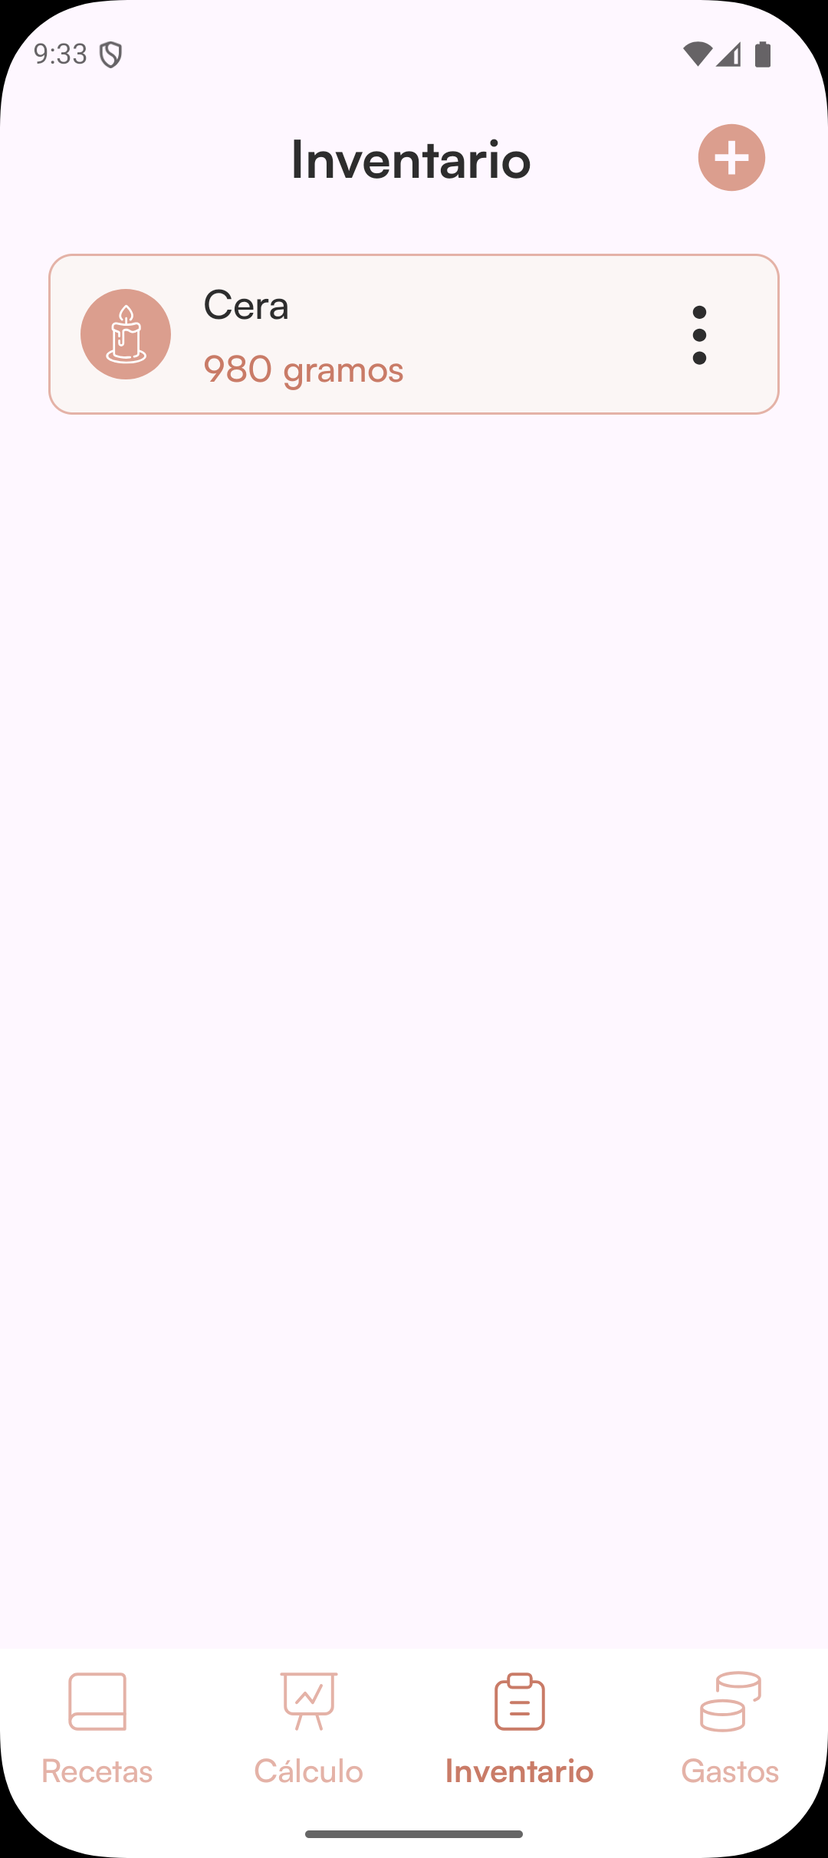
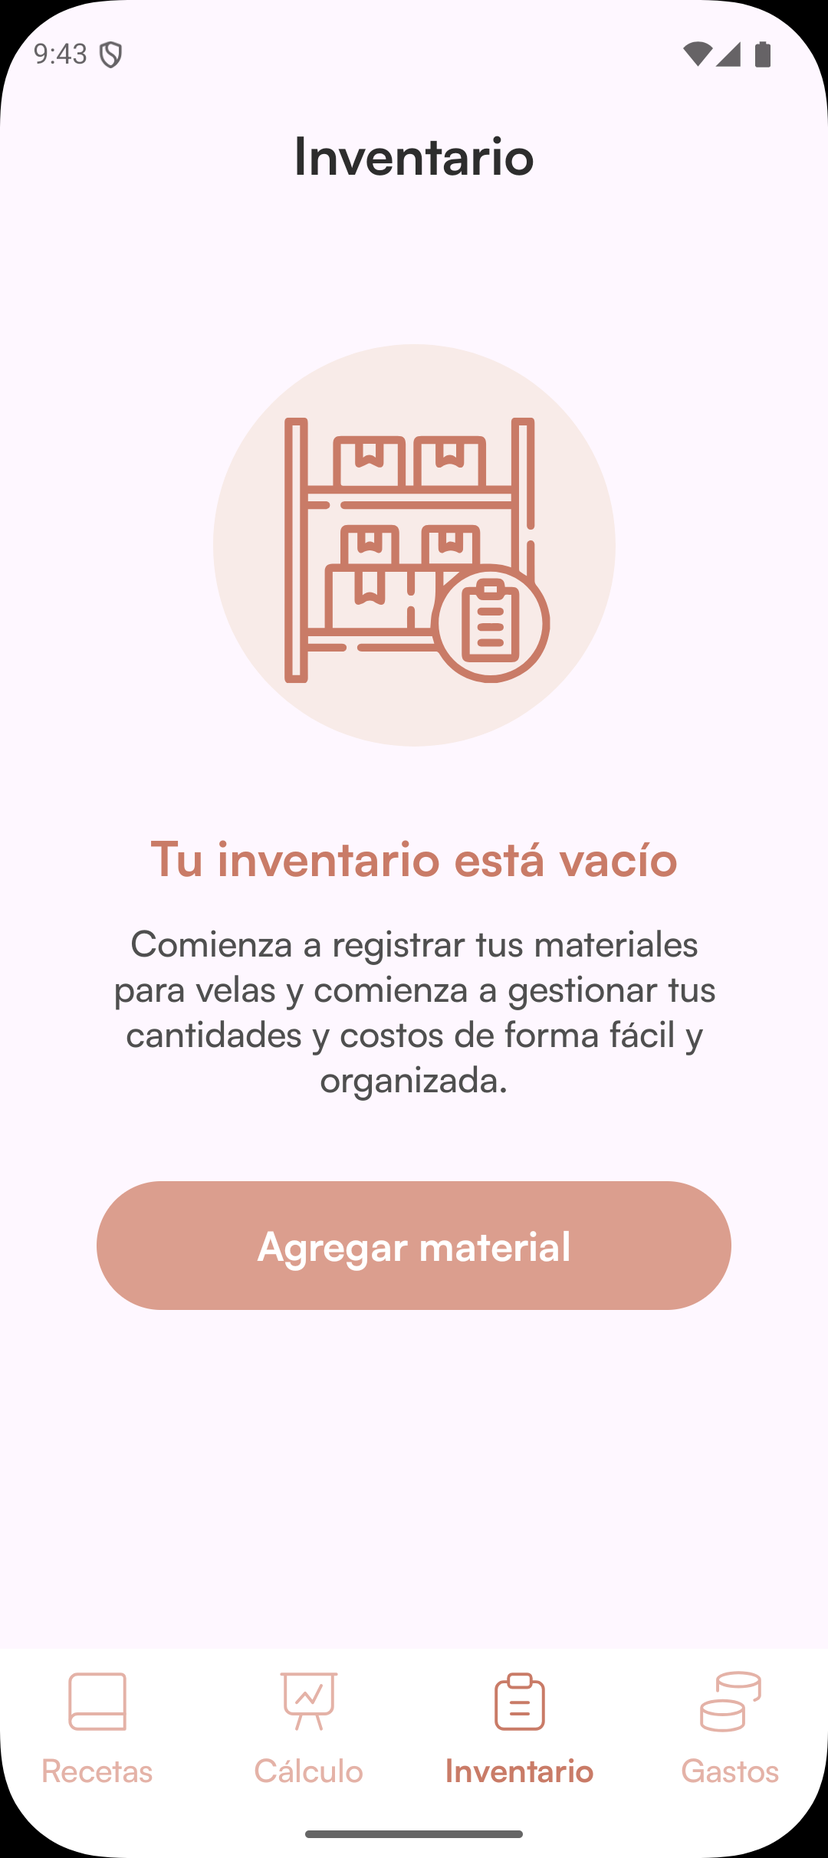
Update gallery: new inventory empty state and add expenses screen
Replace the inventory screenshot with the empty-state screen and add a
fourth screenshot for the expenses flow; gallery now shows four screens.

Claude-Session: https://claude.ai/code/session_01NnMmL3W12Z14CY7UHQrd7F

diff --git a/index.html b/index.html
@@ -215,7 +215,7 @@
 
   /* ---------- Gallery ---------- */
   #galeria { background: var(--ground); }
-  .gallery { display: grid; grid-template-columns: repeat(3, 1fr); gap: clamp(20px, 4vw, 44px); max-width: 860px; margin: 0 auto; }
+  .gallery { display: grid; grid-template-columns: repeat(4, 1fr); gap: clamp(16px, 3vw, 32px); max-width: 1000px; margin: 0 auto; }
   .shot-card { display: flex; flex-direction: column; align-items: center; gap: 16px; }
   .shot-frame {
     width: 100%; aspect-ratio: 1080 / 2424; background: #100C0A;
@@ -226,9 +226,8 @@
   .shot-frame img { width: 100%; height: 100%; object-fit: cover; object-position: top center; border-radius: 28px; display: block; background: #fff; }
   .shot-cap { font-family: var(--font-mono); font-size: 0.78rem; letter-spacing: 0.06em; color: var(--ink-soft); }
   .shot-cap b { color: var(--terracotta-ink); font-weight: 500; }
-  @media (max-width: 680px) {
-    .gallery { grid-template-columns: 1fr; max-width: 300px; gap: 40px; }
-  }
+  @media (max-width: 900px) { .gallery { grid-template-columns: repeat(2, 1fr); max-width: 560px; gap: 28px; } }
+  @media (max-width: 520px) { .gallery { grid-template-columns: 1fr; max-width: 300px; gap: 40px; } }
 
   /* ---------- Engineering ---------- */
   #ingenieria { background: var(--ground); }
@@ -446,6 +445,14 @@
                data-es-alt="Inventario de materiales en CalculaTuVela" data-en-alt="Materials inventory in CalculaTuVela">
         </div>
         <p class="shot-cap"><b>03</b> · <span data-es="Inventario" data-en="Inventory">Inventario</span></p>
+      </div>
+      <div class="shot-card">
+        <div class="shot-frame">
+          <img src="assets/screens/g-gastos.png" width="828" height="1858" loading="lazy"
+               alt="Registro de gastos en CalculaTuVela"
+               data-es-alt="Registro de gastos en CalculaTuVela" data-en-alt="Expense tracking in CalculaTuVela">
+        </div>
+        <p class="shot-cap"><b>04</b> · <span data-es="Gastos" data-en="Expenses">Gastos</span></p>
       </div>
     </div>
   </div>
